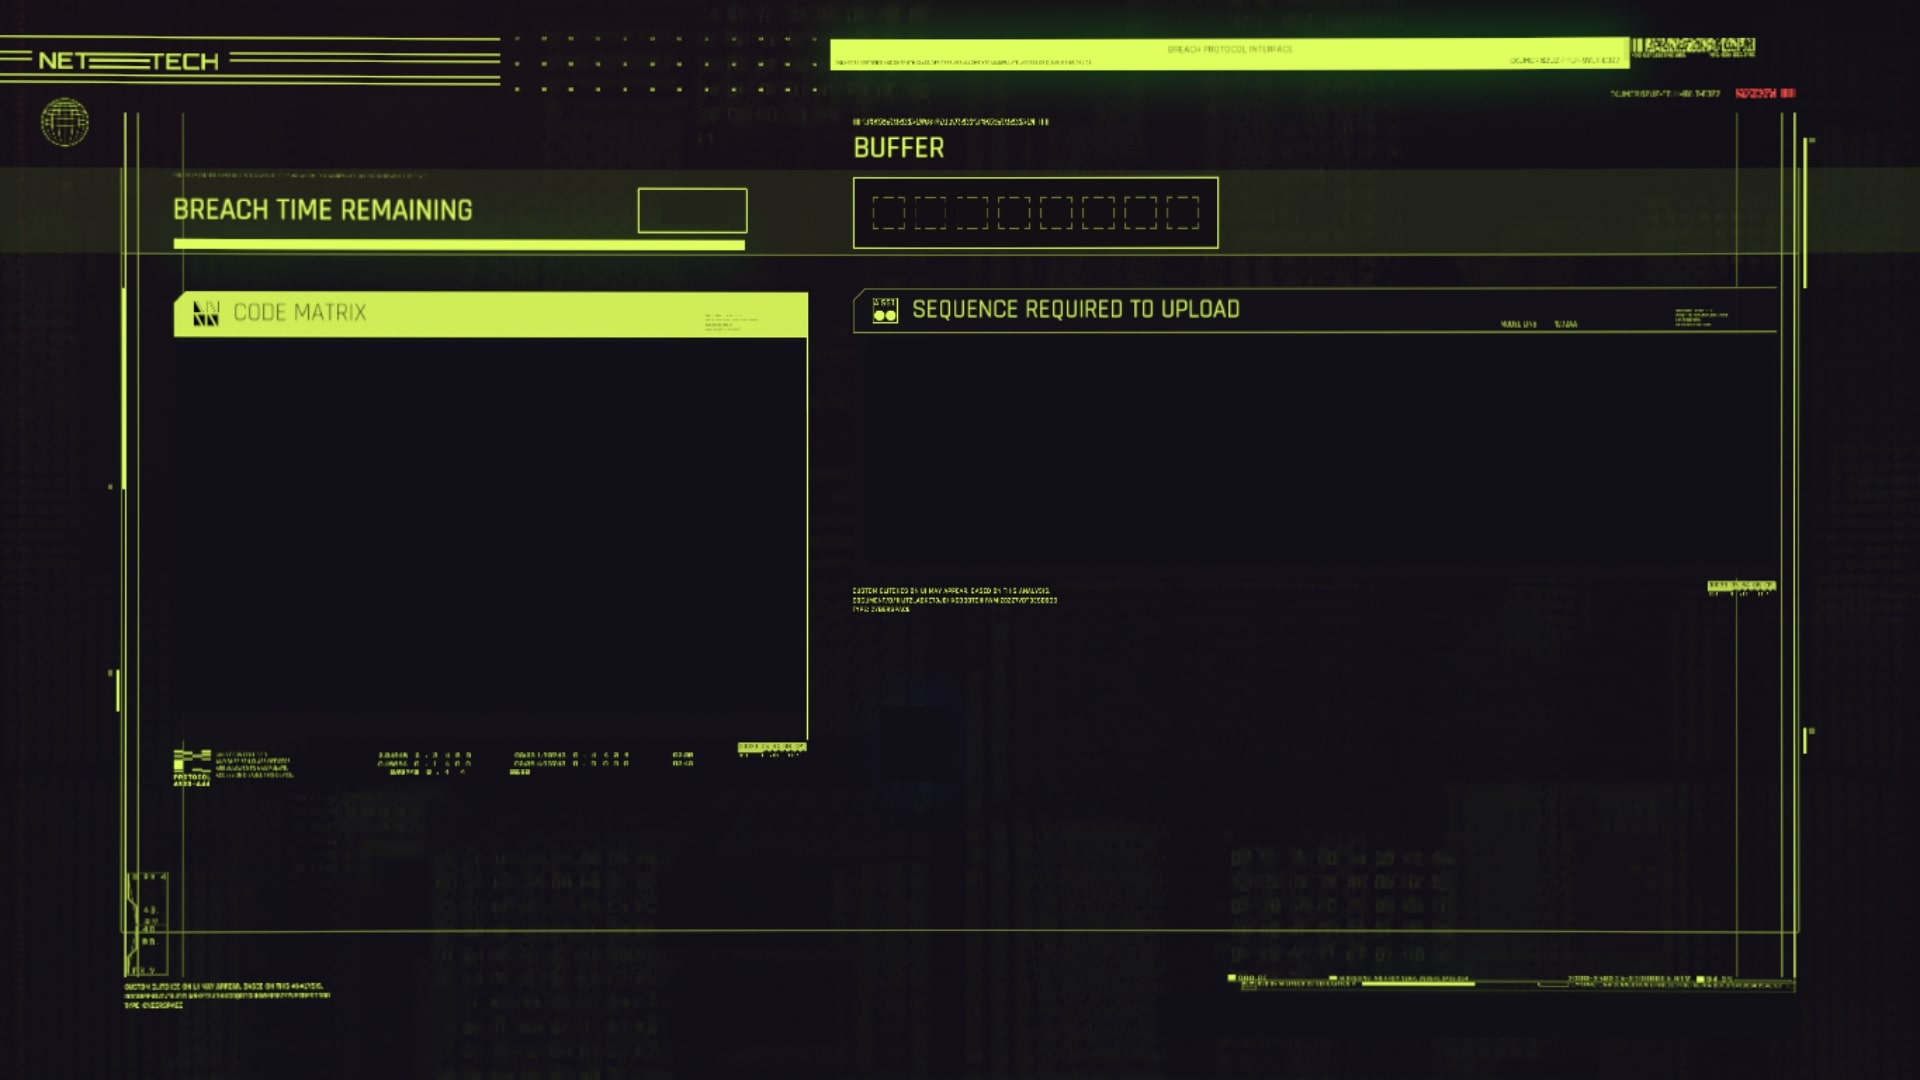
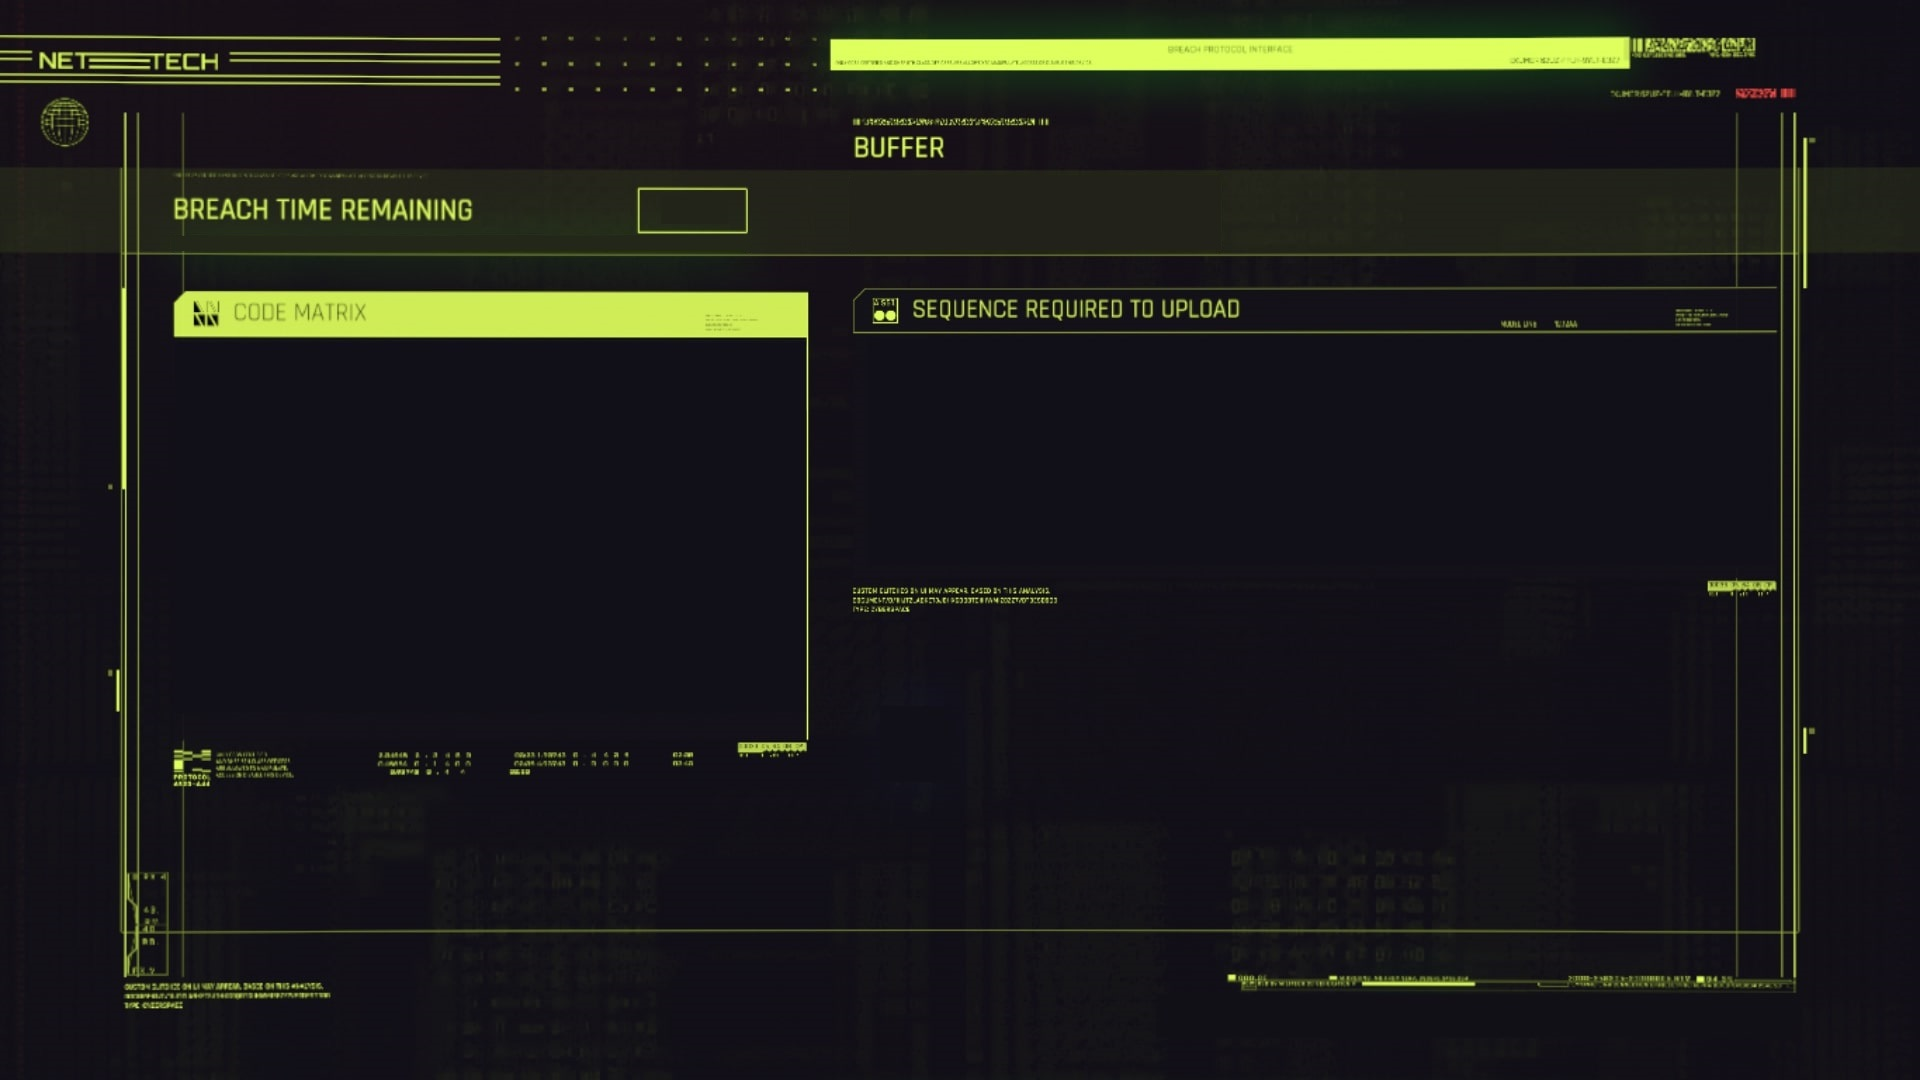
adjusting background, adjusting sizeability of components

Changed region(s): [[0.0938, 0.2139, 0.4062, 0.2444], [0.4375, 0.1528, 0.625, 0.1833], [0.4375, 0.2139, 0.4688, 0.2444]]

diff --git a/src/app/code-matrix/code-matrix.component.sass b/src/app/code-matrix/code-matrix.component.sass
@@ -1,24 +1,33 @@
 .background
   background: url('./../../assets/images/hackingBackground.jpg') no-repeat
   background-size: contain
-  width: 100vw
-  height: 100vh
-  position: relative
+  width: 98vw
+  max-width: 1760px
+  height: 57vw
+  max-height: 990px
 .outer
   z-index: 1
   position: absolute
-  width: 33vw
-  left: 9vw
-  top: 18vw
+  width: 32.6vw
+  left: 8.77vw
+  top: 17.57vw
+  @media (min-width: 1800px)
+    left: 158px
+    top: 317px
+    width: 588px
 .inner
   width: 100%
   .hacker-td
     color: #d5dbb5
-    width: 32px
+    width: 3.97vw
     text-align: center
-    padding: 0.5vw
+    padding: 0.49vw 0.39vw
     font-size: 1.8vw
     border: 1px solid transparent
+    @media (min-width: 1800px)
+      font-size: 32px
+      width: 71.6px
+      padding: 8.8px 7px
     &:hover
       cursor: pointer
       border: 1px solid #a1fbf9
@@ -48,30 +57,47 @@
 
 .buffer
   position: absolute
-  left: 44.3vw
-  top: 9.2vw
+  left: 43.36vw
+  top: 9vw
+  @media (min-width: 1800px)
+    left: 780px
+    top: 162px
   .buffer-box
     align-items: center
     display: flex
     width: fit-content
     color: #d5dbb5
-    padding: 0.8vw 0.6vw
+    padding: 0.4vw
     border: 2px solid #7f8854
+    @media (min-width: 1800px)
+      padding: 7.2px
     .buffer-item
-      width: 1.7vw
-      height: 1.5vw
+      width: 3vw
+      height: 2.5vw
       padding: 0.05vw
-      margin-left: 3px
+      margin-left: 0.3vw
       border: 1px dotted
-      font-size: 1.5vw
-      text-align: center
+      font-size: 1.8vw
+      display: flex
+      align-items: center
+      justify-content: center
+      @media (min-width: 1800px)
+        padding: 0.9px
+        margin-left: 5.4px
+        width: 54px
+        height: 45px
+        font-size: 32px
 .solution
   position: absolute
   z-index: 1
-  width: 46.6vw
-  top: 17.7vw
-  left: 45.4vw
+  width: 46.1vw
+  top: 17.3vw
+  left: 44.3vw
   color: white
+  @media (min-width: 1800px)
+    top: 312px
+    left: 799px
+    width: 830px
   .sequence-box
     &.solved
       background-color: #1bd575

diff --git a/src/app/code-matrix/code-matrix.component.ts b/src/app/code-matrix/code-matrix.component.ts
@@ -41,16 +41,19 @@ export class CodeMatrixComponent implements OnInit {
     for(let i = 0; i < 6; i++) {
       for(let y = 0; y < 6; y++) {
         if(y == 0) this.matrix[i] = [];
-        this.matrix[i].push(this.possibleValues[this.rand(6)]);
+        // fill matrix array
+        this.matrix[i].push(this.possibleValues[this.rand(this.possibleValues.length)]);
       }
     }
     for(let i = 0; i < 2; i++) {
       for(let y = 0; y < 3; y++) {
         if(y == 0) this.solution[i] = [];
-        this.solution[i].push(this.possibleValues[this.rand(6)]);
+        // fill solution array
+        this.solution[i].push(this.possibleValues[this.rand(this.possibleValues.length)]);
       }
     }
   }
+
   clickedElement(el: any) {
     this.toggleXY = !this.toggleXY
     this.buffer.push(el.target.innerText);
@@ -60,18 +63,23 @@ export class CodeMatrixComponent implements OnInit {
     for(let i = 0; i < (this.maxBuffer - length); i++) this.buffer.push('');
     if(this.buffer.length > this.maxBuffer) this.buffer.pop();
   }
+
   reset() {
     this.buffer = ['','','',''];
     this.bufferClean = [];
     this.randomize();
   }
+
   rand(range: number, startAt = 0) {
     return (Math.floor(Math.random() * 10) % range) + startAt;
   }
+
   correct(nr: number){
     if (this.bufferClean.length == 0) return false;
     return this.bufferClean.toLocaleString().includes(this.solution[nr].toLocaleString())
   }
+
+  // debugging
   log(text: any){
     console.log(text);
   }
